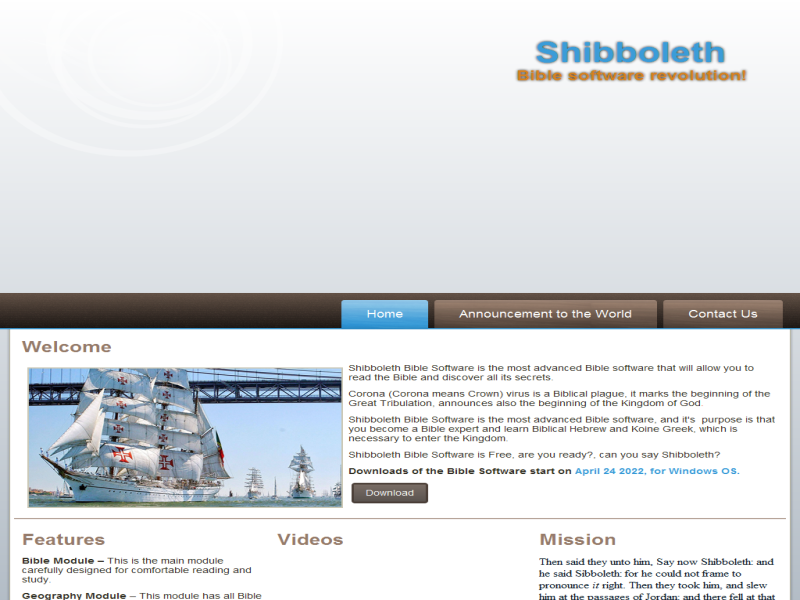
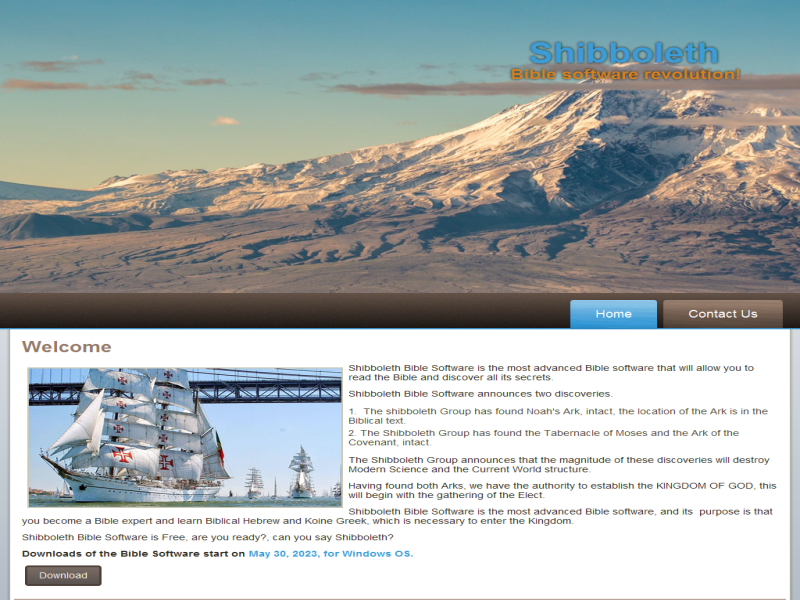
5

diff --git a/images/contact.html b/images/contact.html
@@ -16,43 +16,6 @@
 <script src="https://www.w3counter.com/tracker.js?id=135801"></script>
 
 
-
-
-<!-- Default Statcounter code for shibboleth
-https://shibboleth.eu.org/ -->
-<script type="text/javascript">
-var sc_project=11742831; 
-var sc_invisible=1; 
-var sc_security="7818f651"; 
-</script>
-<script type="text/javascript"
-src="https://www.statcounter.com/counter/counter.js"
-async></script>
-<noscript><div class="statcounter"><a title="Web Analytics
-Made Easy - StatCounter" href="https://statcounter.com/"
-target="_blank"><img class="statcounter"
-src="https://c.statcounter.com/11742831/0/7818f651/1/"
-alt="Web Analytics Made Easy -
-StatCounter"></a></div></noscript>
-<!-- End of Statcounter Code -->
-
-
-<!-- Yandex.Metrika counter -->
-<script type="text/javascript" >
-   (function(m,e,t,r,i,k,a){m[i]=m[i]||function(){(m[i].a=m[i].a||[]).push(arguments)};
-   m[i].l=1*new Date();k=e.createElement(t),a=e.getElementsByTagName(t)[0],k.async=1,k.src=r,a.parentNode.insertBefore(k,a)})
-   (window, document, "script", "https://mc.yandex.ru/metrika/tag.js", "ym");
-
-   ym(71054752, "init", {
-        clickmap:true,
-        trackLinks:true,
-        accurateTrackBounce:true
-   });
-</script>
-<noscript><div><img src="https://mc.yandex.ru/watch/71054752" style="position:absolute; left:-9999px;" alt="" /></div></noscript>
-<!-- /Yandex.Metrika counter -->
-
-
 </head>
 <body>
 <div id="art-main">
@@ -76,7 +39,7 @@ StatCounter"></a></div></noscript>
 </header>
 <nav class="art-nav">
     <div class="art-nav-inner">
-    <ul class="art-hmenu"><li><a href="software.html" class="">Home</a></li><li><a href="announcement-to-the-world.html" class="">Announcement to the World</a></li><li><a href="contact.html" class="active">Contact Us</a></li></ul> 
+    <ul class="art-hmenu"><li><a href="home.html" class="">Home</a></li><li><a href="contact.html" class="active">Contact Us</a></li></ul> 
         </div>
     </nav>
 <div class="art-sheet clearfix">
@@ -88,7 +51,7 @@ StatCounter"></a></div></noscript>
                                                 
                 <div class="art-postcontent art-postcontent-0 clearfix"><p style="padding-left: 20px;"><span style="color: rgb(149, 123, 106); font-size: 26px; font-weight: bold;">Our Mail</span><br></p><p style="padding-left: 20px;"><a href="mailto:admin@shibboleth-bible.com"></a></p>
 
-<p style="padding-left: 20px;"><span style="color: rgb(0, 0, 0); font-family: 'Lato 2', sans-serif; text-align: start; white-space: nowrap; background-color: rgb(242, 243, 244); font-weight: bold;">admin@mybible.eu.org</span><span style="font-weight: bold; color: rgb(35, 121, 175); font-size: 16px;"></span><br></p></div>
+<p style="padding-left: 20px;"><span style="color: rgb(0, 0, 0); font-family: 'Lato 2', sans-serif; text-align: start; white-space: nowrap; background-color: rgb(242, 243, 244); font-weight: bold;">mathew.m@shibboleth.eu.org</span><span style="color: rgb(0, 0, 0); font-family: 'Lato 2', sans-serif; text-align: start; white-space: nowrap; background-color: rgb(242, 243, 244); font-weight: bold;"></span><span style="font-weight: bold; color: rgb(35, 121, 175); font-size: 16px;"></span><br></p></div>
                                 
                 
 
